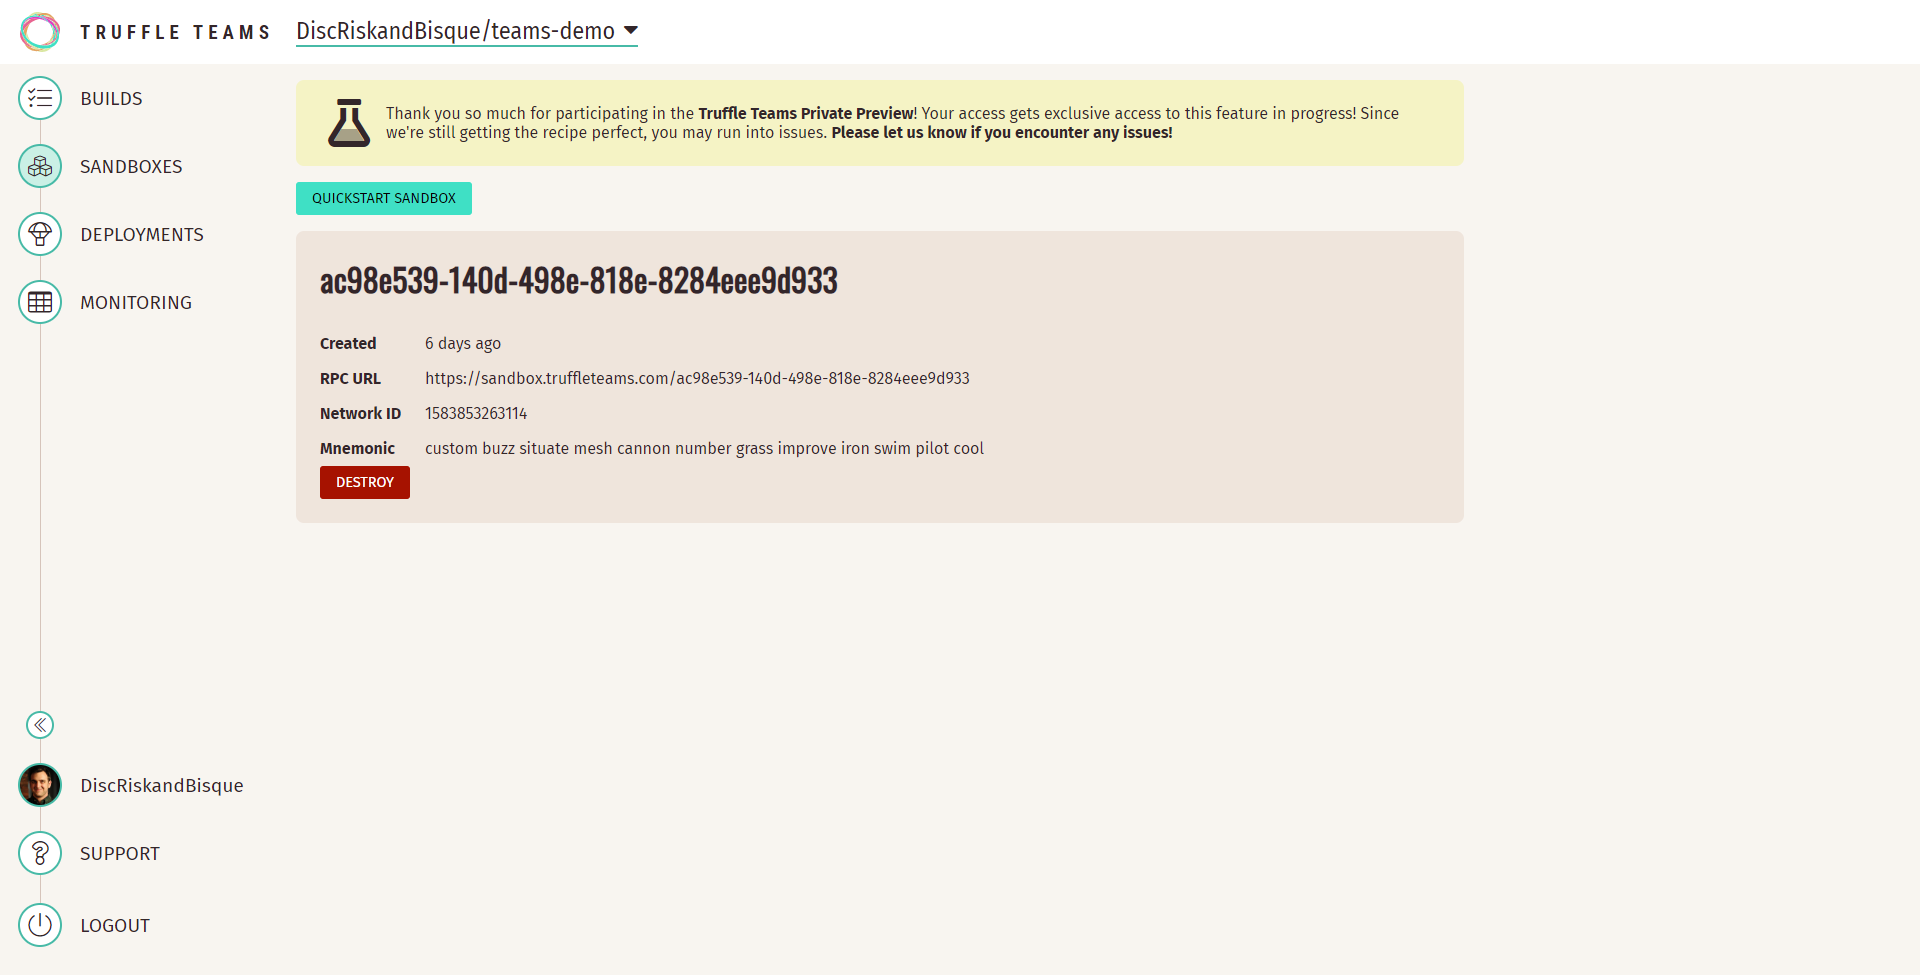
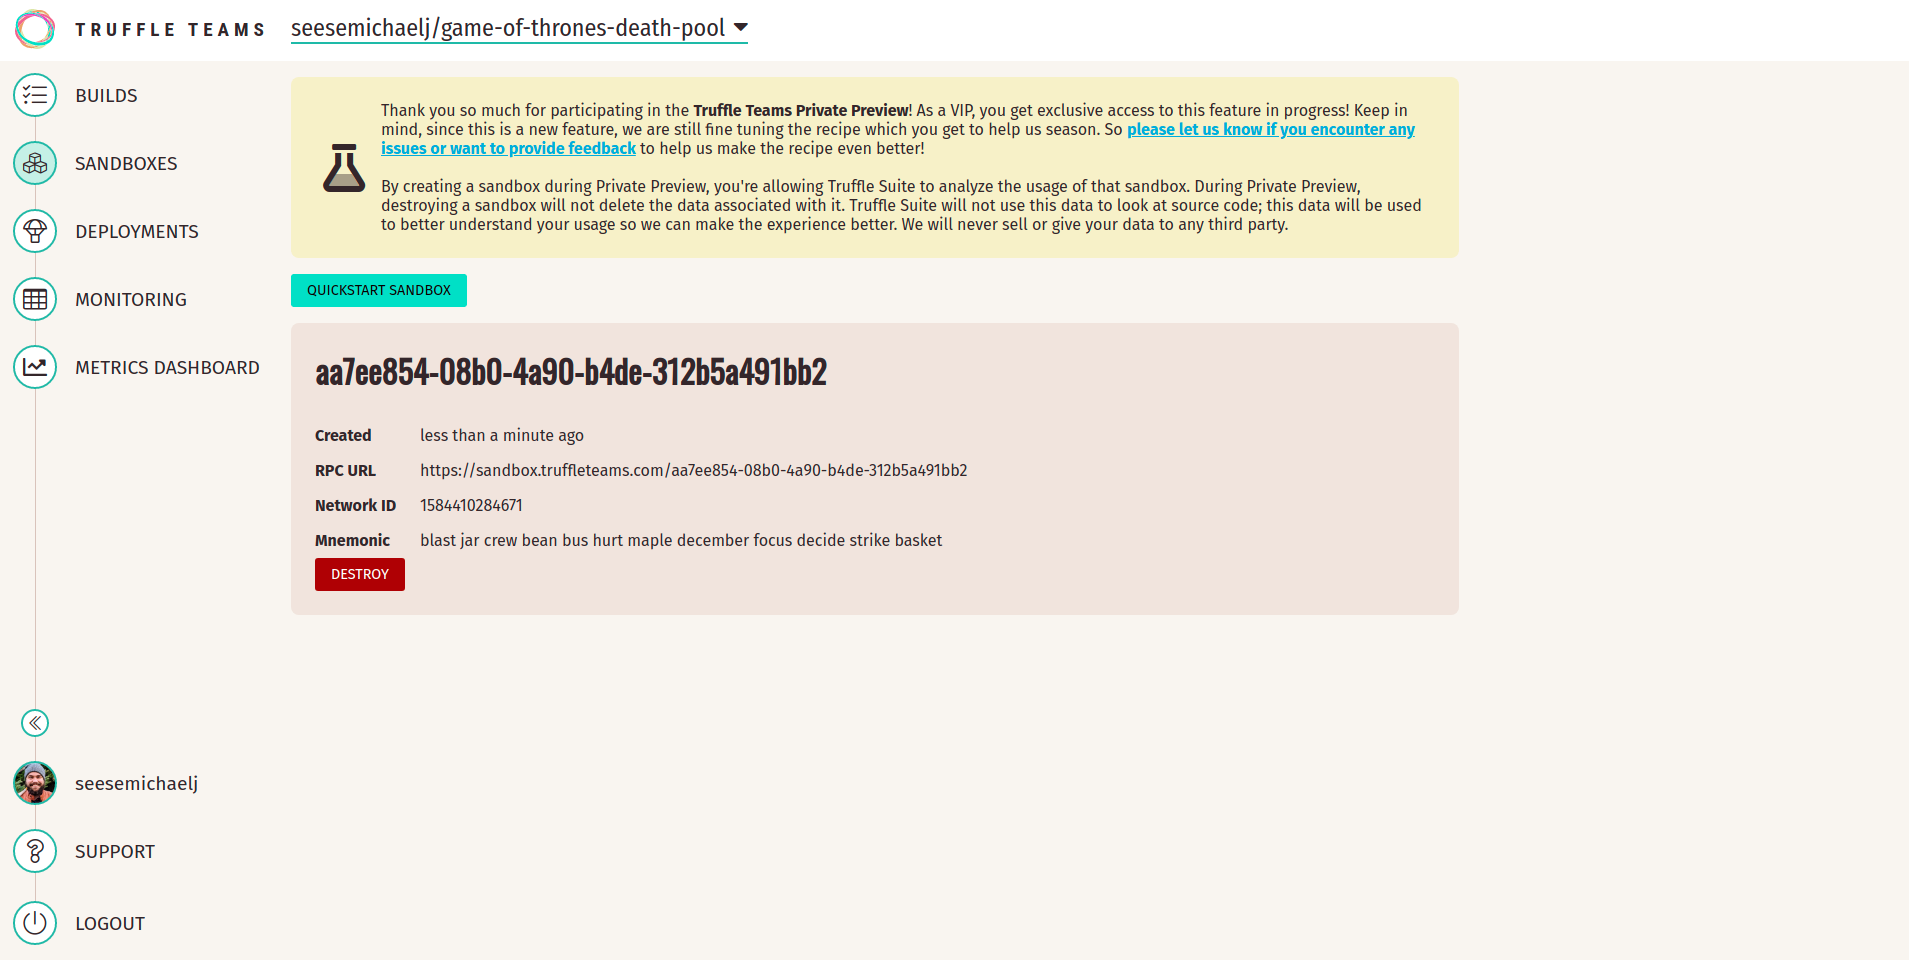
update sandbox docs

diff --git a/src/docs/teams/deployments/sandboxes.md b/src/docs/teams/deployments/sandboxes.md
@@ -4,7 +4,7 @@ layout: docs.hbs
 ---
 # Sandboxes
 
-<p class="alert alert-warning"><i class="fad fa-flask"></i> Thank you so much for participating in the <strong>Truffle Teams Private Preview</strong>! Your access gets exclusive access to this feature in progress! Since we're still getting the recipe perfect, you may run into issues. <strong>Please let us know if you encounter any issues!</strong></p>
+<p class="alert alert-warning"><i class="fad fa-flask"></i> Thank you so much for participating in the <strong>Truffle Teams Private Preview</strong>! As a VIP, you get exclusive access to this feature in progress! Keep in mind, since this is a new feature, we are still fine tuning the recipe which you get to help us season. So <a href="https://truffle-blockstars.slack.com/archives/GUUKVMTLK"><strong>please let us know if you encounter any issues or want to provide feedback</strong></a> to help us make the recipe even better!</p>
 
 Sandboxes are shared Ganache instances you can create with the click of a button. Convenient features of Ganache's local development experience are now available to the whole team! Each sandbox has 10 pre-funded accounts and near-instant transaction times giving your team a performant, turnkey blockchain environment without spending a single wei on transactions.
 
